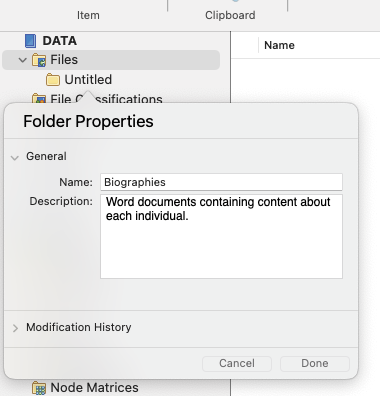
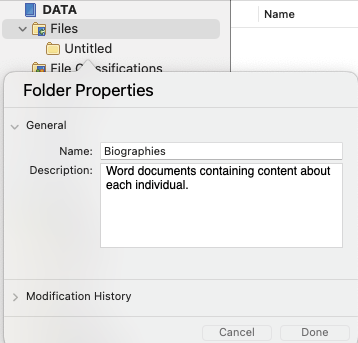
act-2 fixes

diff --git a/act-2-cases.md b/act-2-cases.md
@@ -29,8 +29,8 @@ parent: Workshop Activities
     <img src="images/act-2/6-1.png" alt="hierarchy chart" style="width:500px; margin-left:10px;">
     <img src="images/act-2/6-2.png" alt="hierarchy chart" style="width:500px; margin-left:10px;">
 
-7.	Name your folder Biographies and if you want you can also add a description for your folder like I did, and click done. It is smart to create folders for the files of each project you are working on. This is because it may come a time when we have multiple NVivo databases for the same project, and we want to have our files properly organized on NVIVO workspace. 
-    <img src="images/act-2/7.png" alt="hierarchy chart" style="width:600px; margin-left:10px;">
+7.	Name your folder **Biographies** (if you want you can add a description for your folder), and click **done.** It is smart to create folders for the files of each project you are working on. This is because you may have multiple NVivo databases for the same project, and we want to have our files properly organized on NVIVO workspace. 
+    <img src="images/act-2/7.png" alt="hierarchy chart" style="width:300px; margin-left:10px;">
 
 8.	Now that we have set up our NVivo workspace, we will begin to import our files to our project. Below you will find a set of word document files. Please download all documents to your computer. 
 
